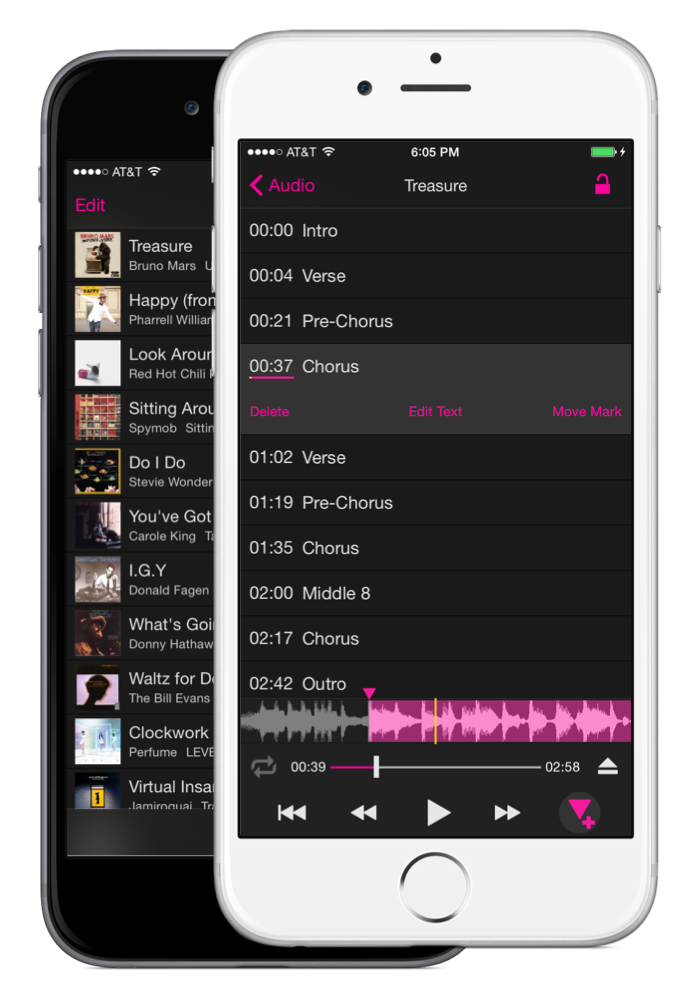
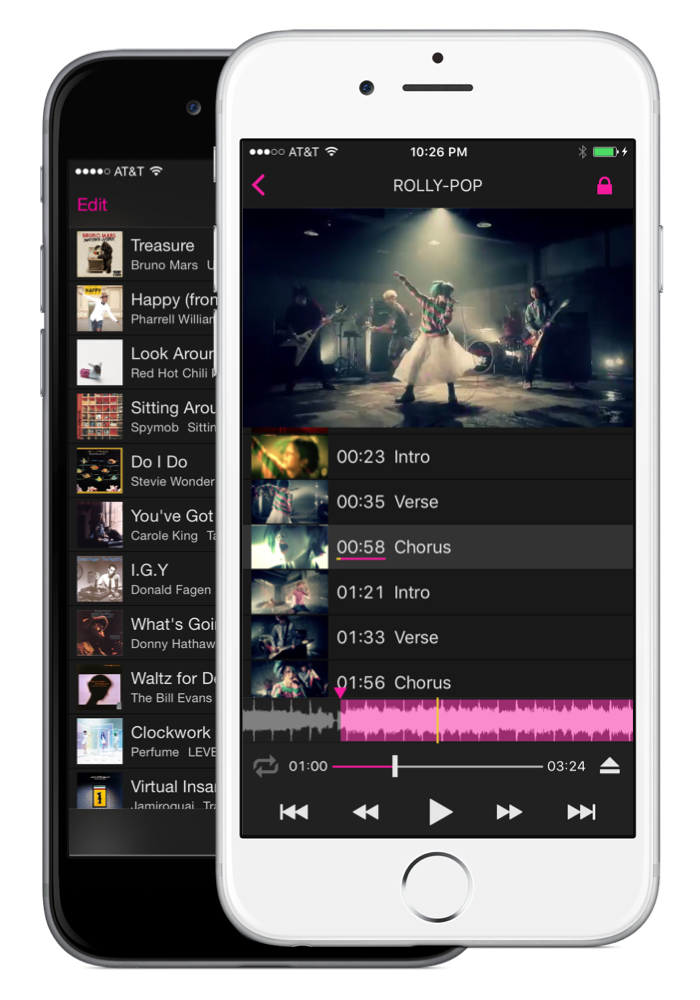
Update to version 2.0.0

diff --git a/index.html b/index.html
@@ -3,8 +3,8 @@
 
 <head>
     <meta charset="UTF-8">
-    <meta name="description" content="PlaySections - Audio Player for iOS">
-    <meta name="keywords" content="PlaySections, audio, player, iOS, iPhone, iPad">
+    <meta name="description" content="PlaySections - Audio/Video Player for iOS">
+    <meta name="keywords" content="PlaySections, audio, video, player, iOS, iPhone, iPad">
     <meta name="author" content="Hiroshi Kajihata">
     <meta name="viewport" content="width=device-width, initial-scale=1, maximum-scale=1">
 
@@ -13,7 +13,7 @@
     <link rel="alternate" href="http://playsections.github.io/?setLng=ja" hreflang="ja" />
 
     <!-- SITE TITLE -->
-    <title>PlaySections - Audio Player for iOS</title>
+    <title>PlaySections - Audio/Video Player for iOS</title>
 
     <!-- =========================
       FAV AND TOUCH ICONS  
@@ -241,7 +241,7 @@
                 <!-- PHONE IMAGE -->
                 <div class="col-md-4 col-sm-4">
                     <div class="phone-image wow bounceIn animated" data-wow-offset="120" data-wow-duration="1.5s">
-                        <img src="images/iPhone_SectionList.png" alt="">
+                        <img src="images/iPhone_Video.png" alt="">
                     </div>
                 </div>
                 <!-- FEATURES RIGHT -->
@@ -362,6 +362,7 @@
                             <li><i class='arrow_triangle-right'></i><span data-i18n="tech_specs.12"></span></li>
                             <li><i class='arrow_triangle-right'></i><span data-i18n="tech_specs.13"></span></li>
                             <li><i class='arrow_triangle-right'></i><span data-i18n="tech_specs.14"></span></li>
+                            <li><i class='arrow_triangle-right'></i><span data-i18n="tech_specs.15"></span></li>
                         </ul>
                         <span data-i18n="tech_specs.notice"></span>
                     </p>
@@ -389,6 +390,10 @@
 
             <div class="row wow bounceIn animated" data-wow-offset="10" data-wow-duration="1.5s">
                 <div id="screenshots" class="owl-carousel owl-theme">
+
+                    <div class="shot">
+                        <a href="images/screenshots/iPhone_Video.png" data-lightbox-gallery="screenshots-gallery"><img src="images/screenshots/iPhone_Video.png" alt="Screenshot"></a>
+                    </div>
 
                     <div class="shot">
                         <a href="images/screenshots/iPhone_SectionList.png" data-lightbox-gallery="screenshots-gallery"><img src="images/screenshots/iPhone_SectionList.png" alt="Screenshot"></a>
